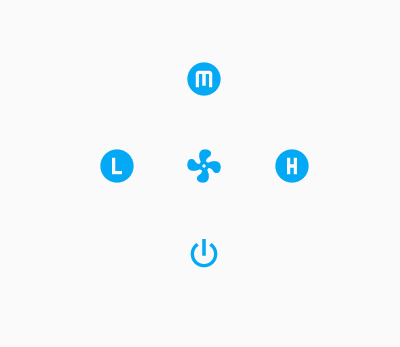
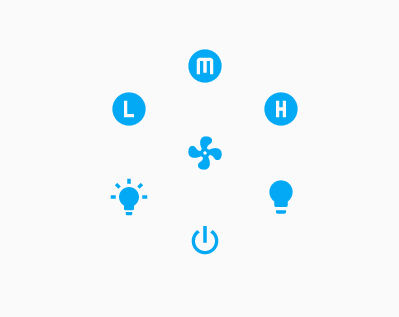
small edit to the lovelace cards section

diff --git a/README.md b/README.md
@@ -14,20 +14,17 @@ I am trying to keep it up to date as much as possible and adding any new feature
 [Click Here](tasmota_info_and_help.md) For tasmota help
 
 ## Homeassistant config file examples
-[Config Examples](hass_config_file_examples/config.yaml)  
-[Automation Examples](hass_config_file_examples/automation.yaml)  
-[Script Examples](hass_config_file_examples/script.yaml)  
-[Theme Examples](hass_config_file_examples/themes.yaml)  
+[Configoration.yaml](hass_config_file_examples/config.yaml)  
+[Automations.yaml](hass_config_file_examples/automation.yaml)  
+[Scripts.yaml](hass_config_file_examples/script.yaml)  
+[Themes.yaml](hass_config_file_examples/themes.yaml)  
 
 ## Homeassistant lovelace card examples
-[2 Horizontal Rows Of Vertical Buttons](lovelace_card_examples/2_horizontal_rows_of_vertical_buttons.yaml)  
-[3 Gauges In A Horizontal Stack](lovelace_card_examples/3_gauges_in_a_horizontal_stack.yaml)  
-[Camera Card With Entities](lovelace_card_examples/camera_card_with_entities.yaml)  
-[Entity Card With Custom Separator](lovelace_card_examples/entity_card_with_custom_separator.yaml)  
-[Mini Media Player](lovelace_card_examples/mini_media_player.yaml)  
-[Round Pop Out Card](lovelace_card_examples/round_pop_out_card.yaml)  
-[Sonarr Upcoming Media](lovelace_card_examples/sonarr_upcoming_media.yaml)  
-[Timer Card](lovelace_card_examples/timer_card.yaml)  
+[2 Horizontal Rows Of Vertical Buttons](lovelace_card_examples/2_horizontal_rows_of_vertical_buttons.md)  
+[3 Gauges In A Horizontal Stack](lovelace_card_examples/3_gauges_in_a_horizontal_stack.md)  
+[Camera Card With Entities](lovelace_card_examples/camera_card_with_entities.md)  
+[Entity Card With Custom Separator](lovelace_card_examples/entity_card_with_custom_separator.md)  
+[Round Pop Out Card](lovelace_card_examples/round_pop_out_card.md)   
 
 ## Port forwarding in routers I have used
 [Click Here](port_forwarding_in_routers/) For port forwarding examples

diff --git a/lovelace_card_examples/round_pop_out_card.md b/lovelace_card_examples/round_pop_out_card.md
@@ -1,41 +1,58 @@
-type: 'custom:radial-menu'
-icon: 'mdi:fan'
-name: Bedroom Fan Remote
+# Round pop out custom Card
+
+![](images/pop_out.png)
+
+```
 default_open: false
 dismiss_default: true
 entity: switch.bedroom
 hold_action:
   action: toggle
+icon: 'mdi:fan'
 items:
   - entity: script.bedroom_fan_medium
+    hold_action:
+      action: more-info
     icon: 'mdi:alpha-m-circle'
-    name: Bedroom Fan Medium
     tap_action:
-      action: exicute
+      action: toggle
       haptic: true
-    hold_action:
-      action: more-info
   - entity: script.bedroom_fan_high
+    hold_action:
+      action: more-info
     icon: 'mdi:alpha-h-circle'
-    name: Bedroom Fan High
     tap_action:
       action: toggle
       haptic: true
+  - entity: script.bedroom_fan_light_off
     hold_action:
       action: more-info
+    icon: 'mdi:lightbulb'
+    tap_action:
+      action: toggle
+      haptic: true
   - entity: script.bedroom_fan_off
+    hold_action:
+      action: more-info
     icon: 'mdi:power'
-    name: Bedroom Fan Off
     tap_action:
       action: toggle
       haptic: true
+  - entity: script.bedroom_fan_light_on
     hold_action:
       action: more-info
+    icon: 'mdi:lightbulb-on'
+    tap_action:
+      action: toggle
+      haptic: true
   - entity: script.bedroom_fan_low
+    hold_action:
+      action: more-info
     icon: 'mdi:alpha-l-circle'
-    name: Bedroom Fan Low
     tap_action:
       action: toggle
       haptic: true
-    hold_action:
-      action: more-info
+name: Bedroom Fan Remote
+type: 'custom:radial-menu'
+
+```

diff --git a/lovelace_card_examples/camera_card_with_entities.md b/lovelace_card_examples/camera_card_with_entities.md
@@ -1,3 +1,8 @@
+# Camera card with actionable buttons
+
+![](images/camera_with_buttons.png)
+
+```
 camera_image: camera.garage_camera
 entities:
   - input_boolean.garagecam_record
@@ -9,3 +14,4 @@ entities:
     icon: 'mdi:garage-alert'
 title: Garage Camera
 type: picture-glance
+```

diff --git a/lovelace_card_examples/entity_card_with_custom_separator.md b/lovelace_card_examples/entity_card_with_custom_separator.md
@@ -1,3 +1,8 @@
+# Entity card with custom separator
+
+![](images/custom_sep.png)
+
+```
 entities:
   - entity: switch.dishwasher_power
     name: Power Toggle
@@ -18,3 +23,4 @@ entities:
 show_header_toggle: false
 title: Dishwasher
 type: entities
+```

diff --git a/lovelace_card_examples/3_gauges_in_a_horizontal_stack.md b/lovelace_card_examples/3_gauges_in_a_horizontal_stack.md
@@ -1,3 +1,8 @@
+# 3 Graphs in a horizontal row
+
+![](images/3gauges.png)
+
+```
 cards:
   - cards:
       - entity: sensor.speedtest_download
@@ -19,3 +24,4 @@ cards:
     type: horizontal-stack
 name: Speed Test
 type: horizontal-stack
+```

diff --git a/lovelace_card_examples/2_horizontal_rows_of_vertical_buttons.md b/lovelace_card_examples/2_horizontal_rows_of_vertical_buttons.md
@@ -1,3 +1,4 @@
+# 2 horizontal Rows of vertical Buttons
 
 ![](images/2_rows_of_buttons.png)
 
